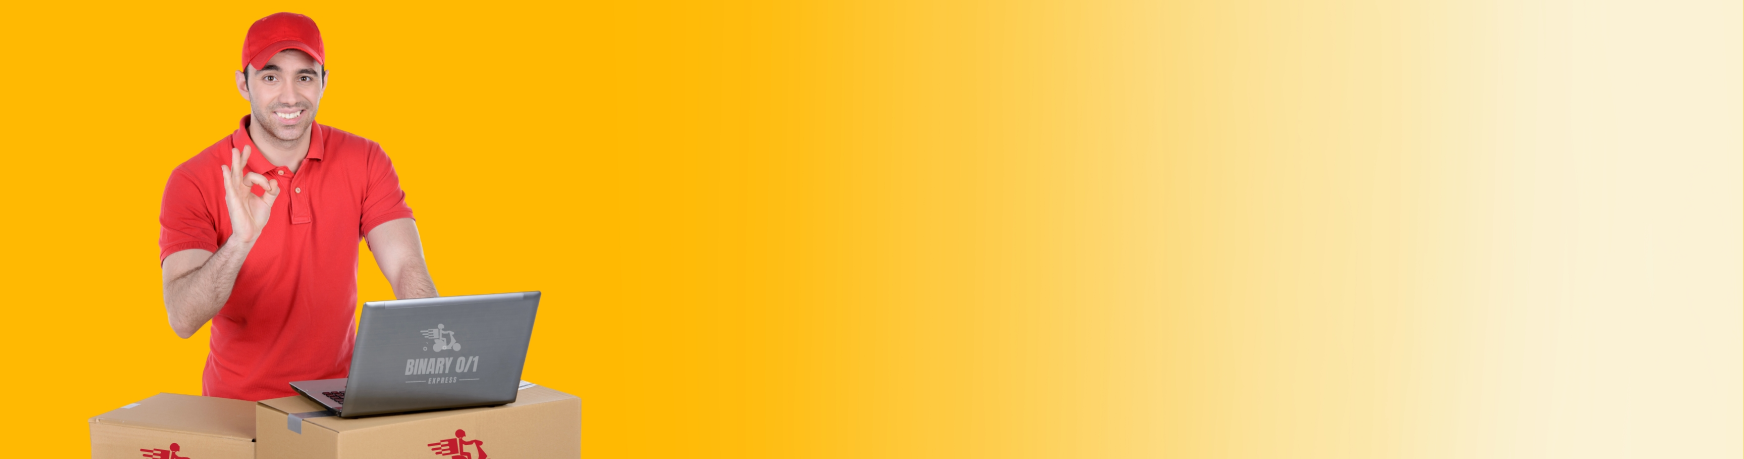
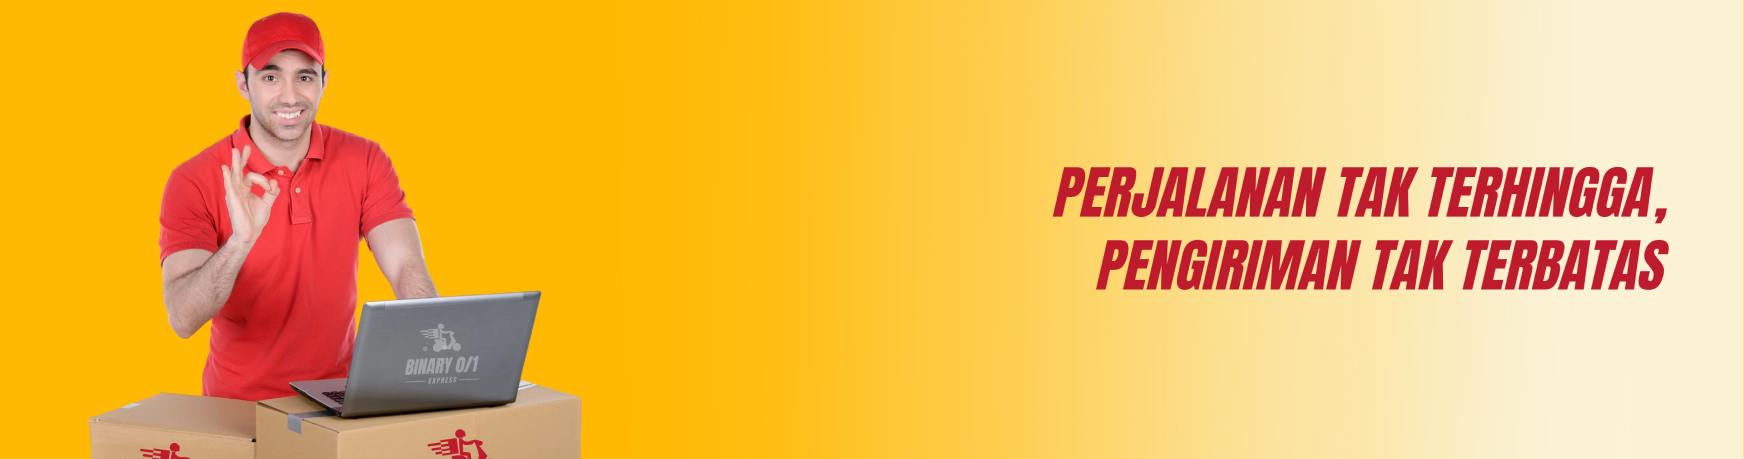
Dashboard Done

Changed region(s): [[0.5883, 0.366, 0.9599, 0.488], [0.6193, 0.5185, 0.9599, 0.6405]]

diff --git a/Dashboard/css/style.css b/Dashboard/css/style.css
@@ -24,6 +24,60 @@
   margin-left: 30px;
 }
 
+.tentang{
+  position: absolute;
+  display: flex;
+  align-items: center;
+  justify-content: center;
+  margin-left: 800px;
+  margin-top: 25px;
+  width: 150px;
+  height: 50px;
+  border-radius: 39.5px;
+  background: #D00000;
+}
+
+.tentang h2{
+  text-align: center;
+  color: #FFBA08;
+  text-shadow: 0px 4px 4px 0px rgba(0, 0, 0, 0.25);
+  font-size: 20px;
+  font-family: Ubuntu;
+  cursor: pointer;
+}
+
+.line img{
+  margin-left: 950px;
+}
+
+.kotak_login{
+  position: absolute;
+  width: 200px;
+  height: 50px;
+  margin-top: 25px;
+  margin-left: 1100px;
+  border-radius: 55px;
+  border: 3px solid #000;
+}
+
+.kotak_login img{
+  width: 35px;
+  height: 35px;
+  margin-left: 7px;
+  margin-top: 7px;
+}
+
+.kotak_login h2 a{
+  position: absolute;
+  color: #000;
+  text-decoration-line: none;
+  font-size: 21px;
+  font-family: Ubuntu;
+  margin-top: 12px;
+  margin-left: 53px;
+  cursor: pointer;
+}
+
 .content{
   width: 1365px;
   position: absolute;
@@ -72,4 +126,46 @@
   padding: 8px 12px;
   position: absolute;
   top: 0;
+}
+
+.footer {
+  position: absolute;
+  display: flex;
+  align-items: center;
+  justify-content: center;
+  margin-top: 400px;
+  width: 1365px;
+  height: 249px;
+  background: #D00000;
+}
+
+.footer h1{
+  color: #FFBA08;
+  margin-top: -150px;
+  text-shadow: 0px 4px 4px 0px rgba(0, 0, 0, 0.25), 0px 4px 4px 0px rgba(0, 0, 0, 0.25);
+  font-size: 30px;
+  font-family: Ubuntu;
+}
+
+.kotak_lacak{
+  position: absolute;
+  width: 500px;
+  height: 80px;
+  display: flex;
+  border-radius: 10px;
+  background: #FFBA08;
+}
+
+.kotak_lacak input{
+  border-style: none;
+  width: 500px;
+  text-align: center;
+  background: none;
+  font-size: 25px;
+  font-family: Ubuntu;
+  font-style: italic;
+}
+
+.pelacakan::-webkit-input-placeholder{
+  color: rgba(208, 0, 0, 0.48);
 }

diff --git a/Dashboard/dashboard.html b/Dashboard/dashboard.html
@@ -11,7 +11,16 @@
     <div class="header">
       <div class="kotak_header"></div>
       <img src="../Dashboard/asset/logo.png" alt="">
-      
+      <div class="tentang">
+        <h2>Tentang Kami</h2>
+      </div>
+      <div class="line"><img src="../Dashboard/asset/line.png" alt=""></div>
+      <div class="login">
+        <div class="kotak_login">
+          <img src="../Dashboard/asset/icon_profile.png" alt="">
+          <h2><a href="../login/login_form.php">Login/Register</a></h2>
+        </div>
+      </div>
     </div>
     <div class="content">
       <div class="imgslide fade">
@@ -61,10 +70,12 @@
           dot[slideIndex - 1].className += " active";
       }
   </script>
-  <div class="footer">
-    <div class="kotak1"></div>
-    <h1>Lacak Kiriman</h1>
-  </div>
+    <div class="footer">
+      <h1>Lacak Kiriman</h1>
+      <div class="kotak_lacak">
+        <input type="number" name="lacakan" class="pelacakan" required placeholder="Masukkan nomor resi kiriman anda">
+      </div>
+    </div>
   </div>
 </body>
 </html>
